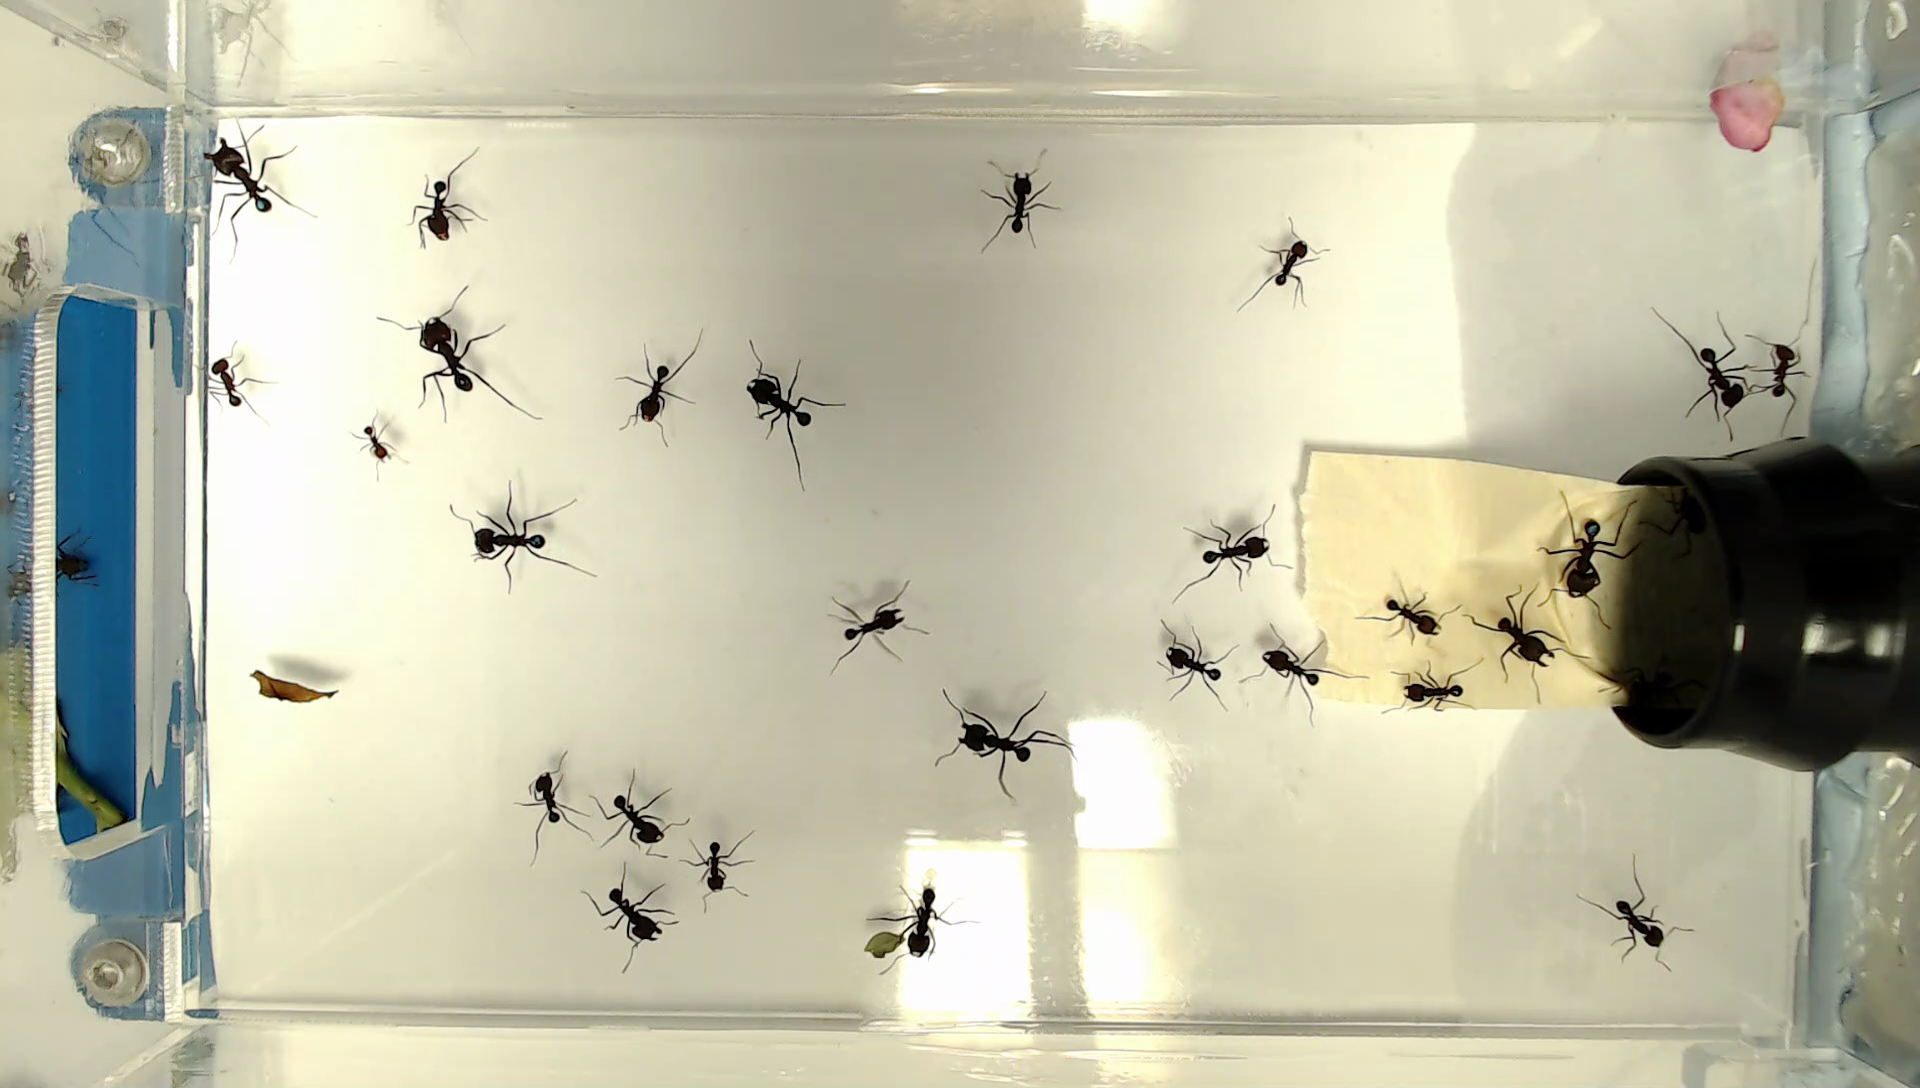
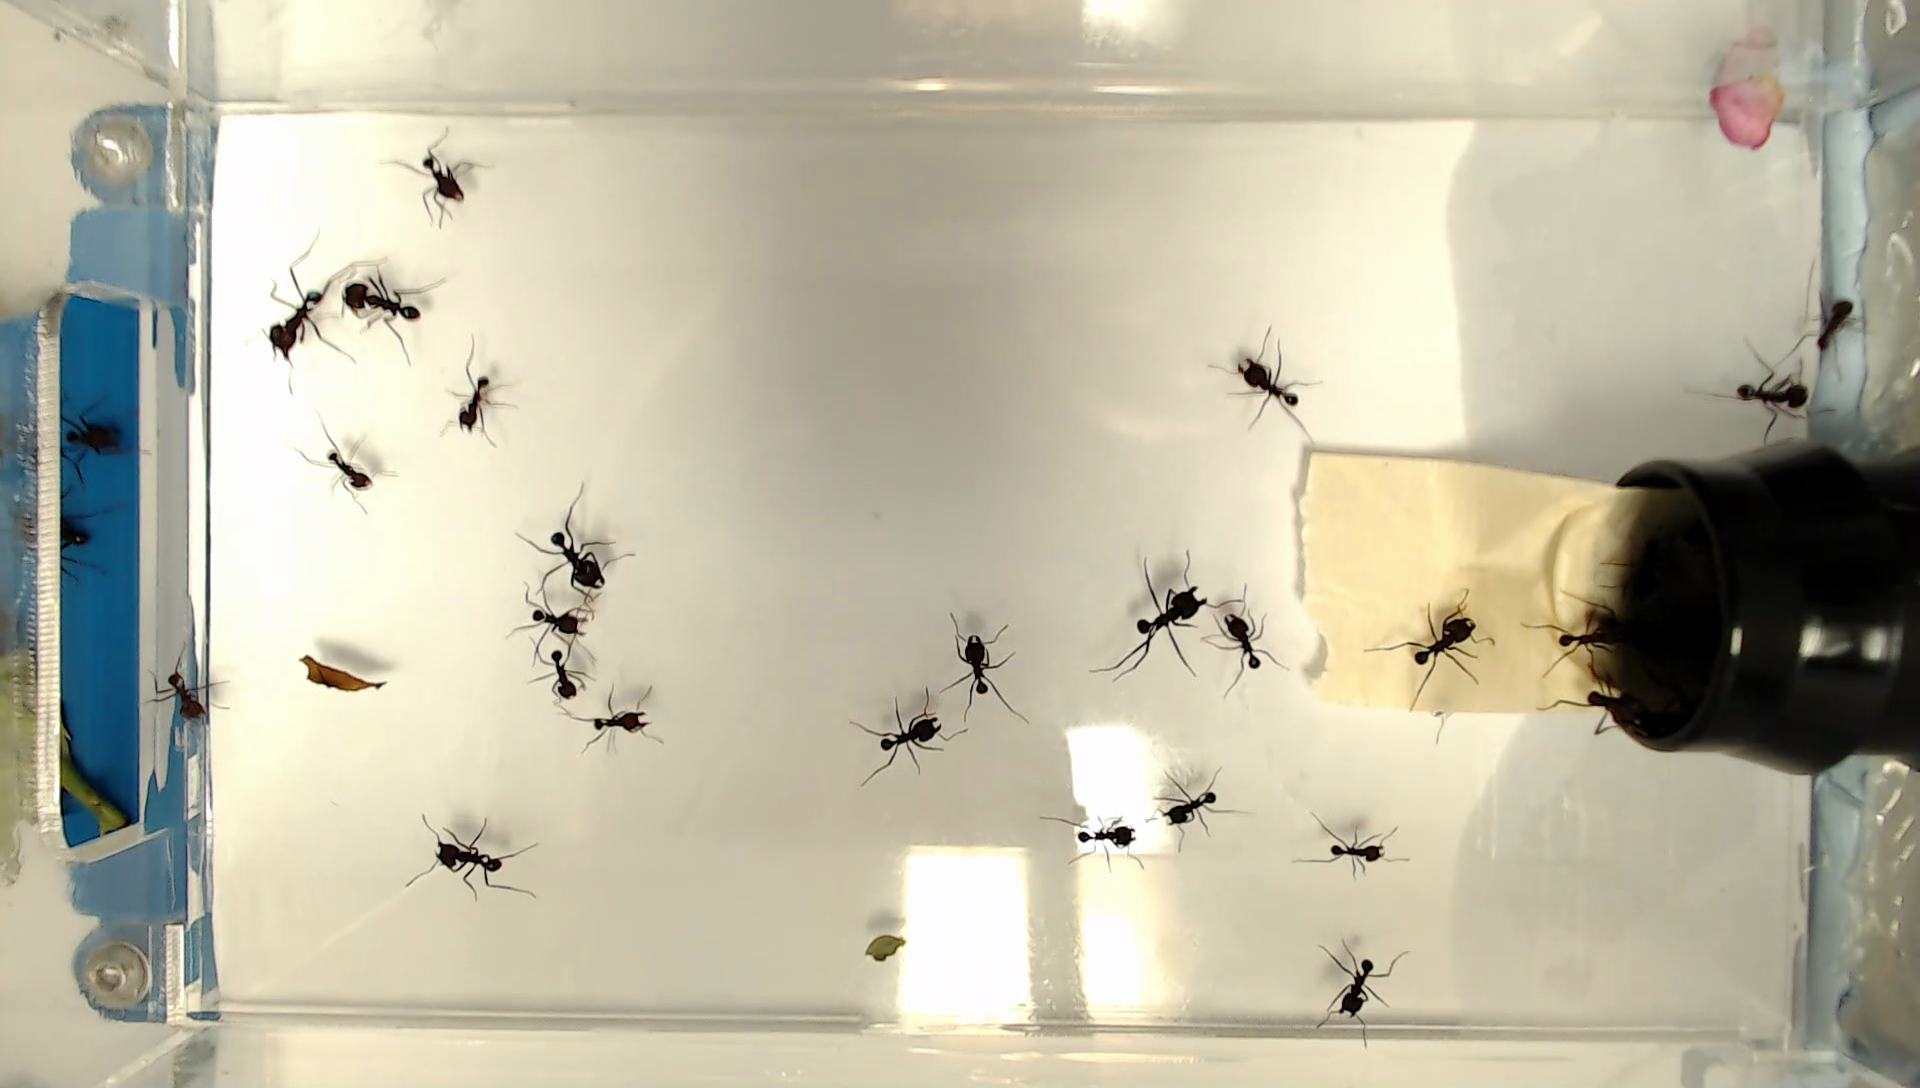
new images (frame increment by 1 frame)

diff --git a/src/main/java/VideoPanel.java b/src/main/java/VideoPanel.java
@@ -7,7 +7,7 @@ import java.util.TimerTask;
 
 public class VideoPanel extends JPanel {
     private static int[] frameID;
-    private static JLabel[] picLabel;
+    private static JLabel picLabel;
 
     public VideoPanel(){
         setBackground(Color.black);
@@ -18,7 +18,7 @@ public class VideoPanel extends JPanel {
         frameID[0] = 1;
         frameID[1] = 1;
 
-        picLabel = new JLabel[2];
+        picLabel = new JLabel();
 
         new java.util.Timer().schedule(new TimerTask(){
             @Override
@@ -28,7 +28,6 @@ public class VideoPanel extends JPanel {
                 loadFrame();
             }
         }, 500,500);
-
 
     }
     private void loadFrame() {
@@ -62,8 +61,8 @@ public class VideoPanel extends JPanel {
         Image scaling = overlay.getScaledInstance(getWidth(),getHeight(),Image.SCALE_DEFAULT);
         ImageIcon scaledImage = new ImageIcon(scaling);
 
-        picLabel[0] = new JLabel(scaledImage);
-        add(picLabel[0]);
+        picLabel = new JLabel(scaledImage);
+        add(picLabel);
         revalidate();
         repaint();
     }
@@ -73,7 +72,7 @@ public class VideoPanel extends JPanel {
        frameID[1]=frameID[0];
 
        if(frameID[0]>1) {
-           frameID[0] = frameID[0]-50;
+           frameID[0] = frameID[0]-1;
        }
     }
 
@@ -81,8 +80,8 @@ public class VideoPanel extends JPanel {
 
         frameID[0]=frameID[1];
 
-        if(frameID[1]<451) {
-            frameID[1] = frameID[1] + 50;
+        if(frameID[1]<65) {
+            frameID[1] = frameID[1] + 1;
         }
 
     };
